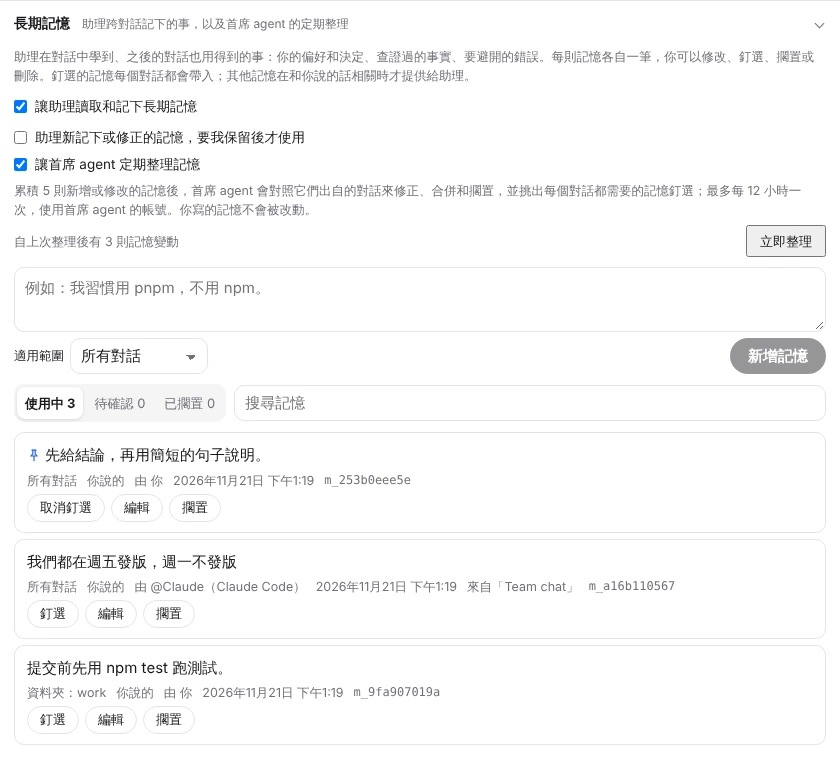
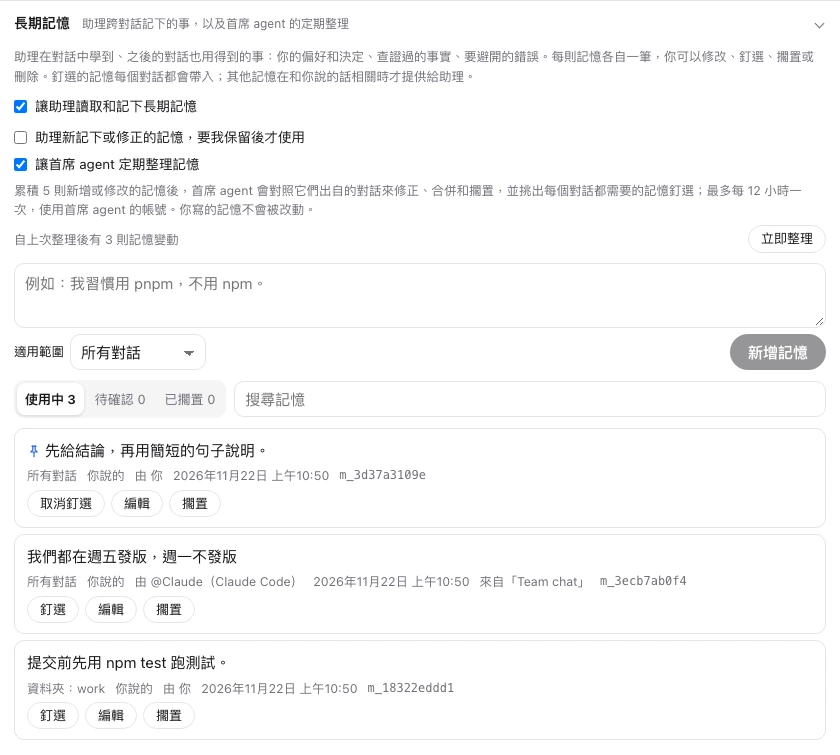
Show Tidy up now and Keep as the app's pill buttons, with new screenshots
- Long-term memory in Settings: Tidy up now was a bare small-button, the browser's square default; it is now an outline pill (ghost small-button) like the notes' Pin, Edit and Set aside below it.
- A waiting note's Keep, in Settings and on a reply's card, is a filled pill (primary small-button) beside its outline Discard, as the app's other confirm buttons are.
- The site docs' Long-term memory screenshots (both languages) taken again from the built UI with the fake CLIs; their sidecars and the pages' image heights follow.

diff --git a/site/zh-TW/docs/tools/index.html b/site/zh-TW/docs/tools/index.html
@@ -593,7 +593,7 @@
           </figure>
           <p>展開<b>長期記憶</b>可以搜尋、新增、編輯、釘選、擱置與刪除記憶，也可以選擇新記憶是否要等你保留。首席 agent 會不時對照記憶來自的對話整理它們，也可以按<b>立即整理</b>馬上進行；它從不修改你寫的記憶，agent 也從不刪除記憶。</p>
           <figure class="doc-figure">
-            <a href="../../../assets/media/docs/tools-long-term-memory-zh-TW.webp"><img src="../../../assets/media/docs/tools-long-term-memory-zh-TW.webp" width="840" height="759" alt="展開的長期記憶列：三個開關、立即整理、新增記憶的輸入框，以及三則使用中的記憶，其中一則已釘選，每則都標出怎麼知道的、作者，以及釘選或取消釘選、編輯與擱置按鈕。" loading="lazy" /></a>
+            <a href="../../../assets/media/docs/tools-long-term-memory-zh-TW.webp"><img src="../../../assets/media/docs/tools-long-term-memory-zh-TW.webp" width="840" height="755" alt="展開的長期記憶列：三個開關、立即整理、新增記憶的輸入框，以及三則使用中的記憶，其中一則已釘選，每則都標出怎麼知道的、作者，以及釘選或取消釘選、編輯與擱置按鈕。" loading="lazy" /></a>
             <figcaption>依狀態列出每則記憶，以及作者和來自哪個對話。</figcaption>
           </figure>
         </section>

diff --git a/site/docs/tools/index.html b/site/docs/tools/index.html
@@ -618,7 +618,7 @@
               notes wait for you to keep them. Now and then the lead agent tidies them against the chats they came from, or
               at once with <b>Tidy up now</b>; it never changes notes you wrote, and agents never delete a note.</p>
           <figure class="doc-figure">
-            <a href="../../assets/media/docs/tools-long-term-memory-en.webp"><img src="../../assets/media/docs/tools-long-term-memory-en.webp" width="840" height="799" alt="The Long-term memory row opened: its three switches, Tidy up now, a box to add a note, and three notes in use, one pinned, each with how it is known, who wrote it and its Pin or Unpin, Edit and Set aside buttons." loading="lazy" /></a>
+            <a href="../../assets/media/docs/tools-long-term-memory-en.webp"><img src="../../assets/media/docs/tools-long-term-memory-en.webp" width="840" height="775" alt="The Long-term memory row opened: its three switches, Tidy up now, a box to add a note, and three notes in use, one pinned, each with how it is known, who wrote it and its Pin or Unpin, Edit and Set aside buttons." loading="lazy" /></a>
             <figcaption>Every note, by state, with who wrote it and the chat it came from.</figcaption>
           </figure>
         </section>

diff --git a/src/web/components/LongTermMemory.tsx b/src/web/components/LongTermMemory.tsx
@@ -90,7 +90,7 @@ export function LongTermMemorySection() {
           </span>
           <button
             type="button"
-            className="small-button"
+            className="ghost small-button"
             disabled={view.tidying || !counts.active}
             onClick={() => void run(() => api.tidyMemory())}
           >
@@ -270,7 +270,7 @@ function NoteRow({
             <>
               <button
                 type="button"
-                className="small-button"
+                className="primary small-button"
                 disabled={busy}
                 onClick={() => void run(() => api.editMemoryNote(n.id, { state: 'active' }))}
               >

diff --git a/src/web/components/MessageItem.tsx b/src/web/components/MessageItem.tsx
@@ -365,7 +365,7 @@ function MemoryCard({ part }: { part: MemoryPart }) {
                 <span className="memory-actions">
                   <button
                     type="button"
-                    className="small-button"
+                    className="primary small-button"
                     disabled={busy === id}
                     onClick={() => void act(id, () => api.editMemoryNote(id, { state: 'active' }))}
                   >
